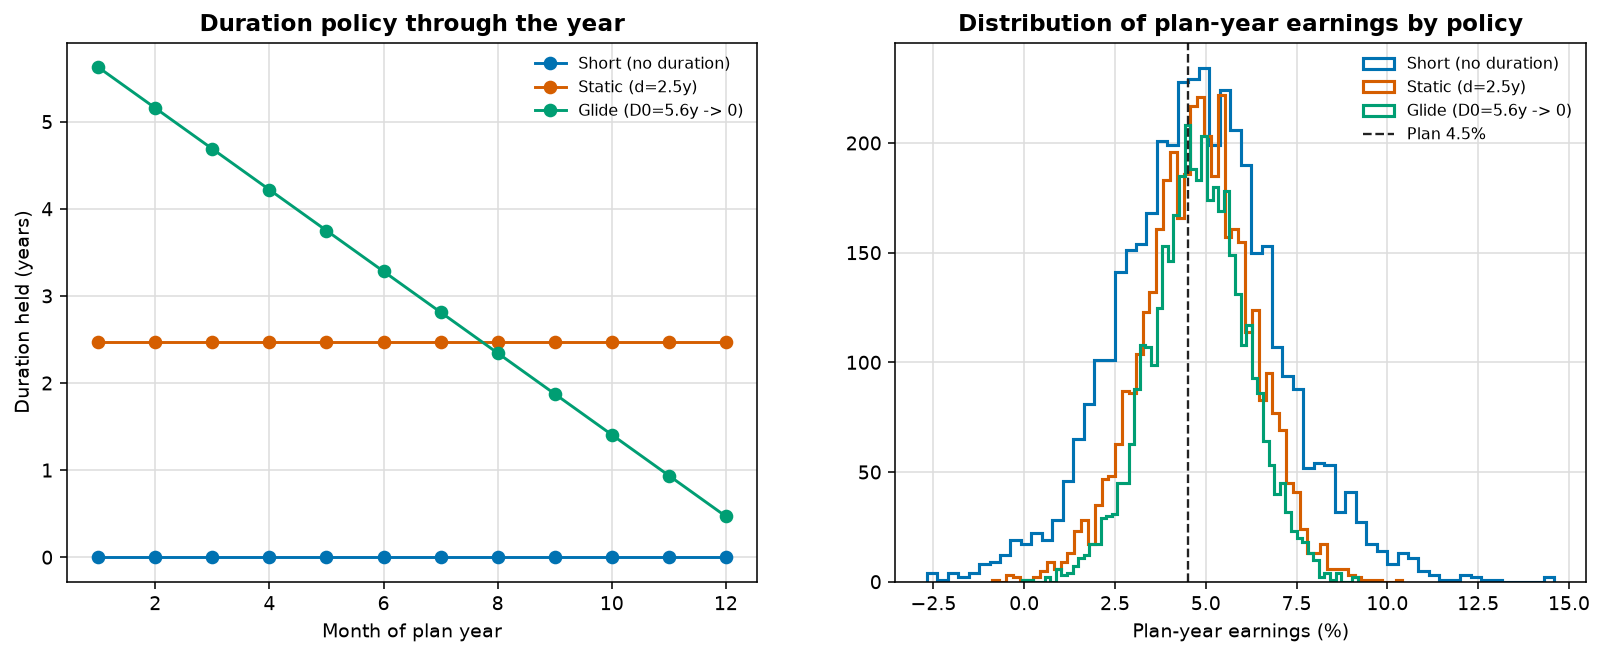
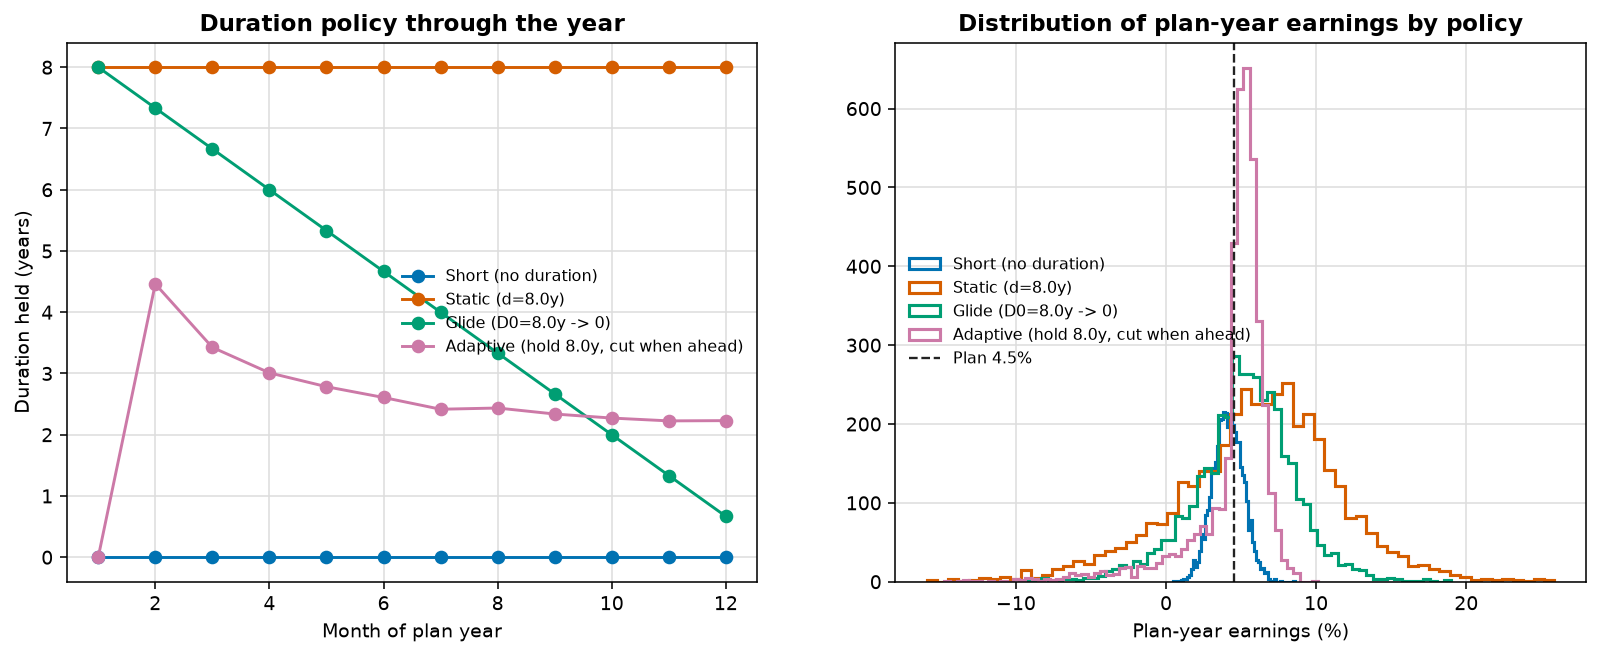
Rework glide path with term-premium trade-off and a path-dependent adaptive policy
Duration now genuinely trades off: it earns a term premium (carry needed to make
the plan) but bears rate risk. Added an adaptive, path-dependent policy that holds
duration while behind the plan pace and cuts it once ahead (bank carry early, lock
in). From the same duration budget the adaptive policy gives the lowest plan-miss
probability and lowest earnings volatility - beating static and fixed-glide. B10
narrative/figure updated; duration capped at a realistic ALM limit.

Claude-Session: https://claude.ai/code/session_01DgyoFccjuPM5hksyx5GaM3

diff --git a/src/glide_path.py b/src/glide_path.py
@@ -68,24 +68,38 @@ def _bootstrap_paths(changes: np.ndarray, n_paths: int, block: int, seed: int) -
     return out
 
 
-def _hedge_target(L: float) -> np.ndarray:
-    """Declining hedge target h_t = L * remaining/12 over the 12 months."""
-    remaining = (MONTHS_PER_YEAR - np.arange(MONTHS_PER_YEAR)) / MONTHS_PER_YEAR
-    return L * remaining
-
-
 def _earnings(d_path: np.ndarray, rate_paths: np.ndarray, noise: np.ndarray,
-              carry_m: float, L: float) -> np.ndarray:
-    """Plan-year earnings for a duration schedule across all simulated rate paths.
+              base_carry_m: float, tp_m: float) -> np.ndarray:
+    """Plan-year earnings for a (possibly time-varying) duration schedule.
 
-    Earnings = carry - sum_t (d_t - h_t) dr_t + idiosyncratic (non-rate) noise.
-    The noise (same draws for every policy - common random numbers) is the
-    spread/credit/equity earnings variation a rate hedge cannot remove, so the
-    best policy minimises *rate* earnings variance but never reaches zero.
+    Each month duration `d_t` both *earns a term premium* (tp_m per year of
+    duration - the carry you need to clear the plan) and *bears rate risk*
+    (-d_t * dr_t). Earnings = base carry + term-premium carry - rate MtM + noise.
+    The trade-off is real: you need duration to make the number, but it is risk.
     """
-    h = _hedge_target(L)
-    rate_impact = ((d_path - h)[None, :] * rate_paths).sum(axis=1)
-    return carry_m * MONTHS_PER_YEAR - rate_impact + noise.sum(axis=1)
+    carry = base_carry_m * MONTHS_PER_YEAR + tp_m * d_path.sum()
+    rate_impact = (d_path[None, :] * rate_paths).sum(axis=1)
+    return carry - rate_impact + noise.sum(axis=1)
+
+
+def _earnings_adaptive(d0: float, rate_paths: np.ndarray, noise: np.ndarray,
+                       base_carry_m: float, tp_m: float, plan: float) -> tuple[np.ndarray, np.ndarray]:
+    """Path-dependent policy: hold duration d0 while cumulative earnings are behind
+    the plan pace, then cut to zero once ahead (bank the carry, then de-risk).
+
+    Returns (plan-year earnings, average duration schedule across paths).
+    """
+    n = rate_paths.shape[0]
+    cum = np.zeros(n)
+    held = np.zeros((n, MONTHS_PER_YEAR))
+    pace = plan / MONTHS_PER_YEAR
+    for t in range(MONTHS_PER_YEAR):
+        ahead = cum >= pace * t                       # banked enough so far?
+        d_t = np.where(ahead, 0.0, d0)                # cut once ahead, else hold
+        held[:, t] = d_t
+        e_t = base_carry_m + tp_m * d_t - d_t * rate_paths[:, t] + noise[:, t]
+        cum = cum + e_t
+    return cum, held.mean(axis=0)
 
 
 def _metrics(E: np.ndarray, plan: float) -> dict:
@@ -102,10 +116,13 @@ def run_glide_path(config: dict, n_paths: int = 4000) -> dict:
     pcfg = config["portfolio"]
     gcfg = config.get("glide_path", {})
     plan = pcfg["plan_return_target"]
-    # The book carries a small buffer above plan (running yield > plan target), so
-    # lower earnings *variance* translates directly into a lower plan-miss chance.
-    carry_ann = gcfg.get("carry_annual", plan + 0.003)
-    carry_m = carry_ann / MONTHS_PER_YEAR
+    # Base carry is set BELOW plan, so the book *needs* duration's term premium to
+    # make the number - but duration is also rate risk. That tension is the lever.
+    base_carry_ann = gcfg.get("base_carry_annual", plan - 0.004)
+    base_carry_m = base_carry_ann / MONTHS_PER_YEAR
+    tp_ann = gcfg.get("term_premium_per_year", 0.0025)   # extra carry per year of duration
+    max_dur = gcfg.get("max_duration", 8.0)              # realistic ALM cap on surplus duration
+    tp_m = tp_ann / MONTHS_PER_YEAR
     L = gcfg.get("plan_rate_sensitivity", config["currencies"]["AUD"]["liability_duration"])
     seed = config["meta"].get("random_seed", 7)
 
@@ -113,36 +130,37 @@ def run_glide_path(config: dict, n_paths: int = 4000) -> dict:
     if gcfg.get("demean_rates", True):
         changes = changes - changes.mean()               # duration as a pure risk lever, not a rate bet
     paths = _bootstrap_paths(changes, n_paths, block=3, seed=seed)
-    # Idiosyncratic (non-rate) monthly earnings noise, shared across policies.
-    idio_ann = gcfg.get("idio_earnings_vol", 0.012)
+    idio_ann = gcfg.get("idio_earnings_vol", 0.010)
     rng = np.random.default_rng(seed + 1)
     noise = rng.normal(0.0, idio_ann / np.sqrt(MONTHS_PER_YEAR), (n_paths, MONTHS_PER_YEAR))
 
     rem = (MONTHS_PER_YEAR - np.arange(MONTHS_PER_YEAR)) / MONTHS_PER_YEAR
-    grid = np.linspace(0.0, 2.0 * L, 41)
-    static = min(grid, key=lambda D: _metrics(_earnings(np.full(MONTHS_PER_YEAR, D), paths, noise, carry_m, L), plan)["prob_miss_plan"])
-    d0 = min(grid, key=lambda D0: _metrics(_earnings(D0 * rem, paths, noise, carry_m, L), plan)["prob_miss_plan"])
+    grid = np.linspace(0.0, max_dur, 41)
+    static = min(grid, key=lambda D: _metrics(_earnings(np.full(MONTHS_PER_YEAR, D), paths, noise, base_carry_m, tp_m), plan)["prob_miss_plan"])
+    glide0 = min(grid, key=lambda D0: _metrics(_earnings(D0 * rem, paths, noise, base_carry_m, tp_m), plan)["prob_miss_plan"])
+    adapt0 = min(grid, key=lambda D0: _metrics(_earnings_adaptive(D0, paths, noise, base_carry_m, tp_m, plan)[0], plan)["prob_miss_plan"])
 
+    adapt_E, adapt_sched = _earnings_adaptive(adapt0, paths, noise, base_carry_m, tp_m, plan)
     policies = {
-        "Short (no duration)": np.zeros(MONTHS_PER_YEAR),
-        f"Static (d={static:.1f}y)": np.full(MONTHS_PER_YEAR, static),
-        f"Glide (D0={d0:.1f}y -> 0)": d0 * rem,
+        "Short (no duration)": (np.zeros(MONTHS_PER_YEAR), _earnings(np.zeros(MONTHS_PER_YEAR), paths, noise, base_carry_m, tp_m)),
+        f"Static (d={static:.1f}y)": (np.full(MONTHS_PER_YEAR, static), _earnings(np.full(MONTHS_PER_YEAR, static), paths, noise, base_carry_m, tp_m)),
+        f"Glide (D0={glide0:.1f}y -> 0)": (glide0 * rem, _earnings(glide0 * rem, paths, noise, base_carry_m, tp_m)),
+        f"Adaptive (hold {adapt0:.1f}y, cut when ahead)": (adapt_sched, adapt_E),
     }
     rows, dists, schedules = {}, {}, {}
-    for name, d_path in policies.items():
-        E = _earnings(d_path, paths, noise, carry_m, L)
+    for name, (d_path, E) in policies.items():
         rows[name] = _metrics(E, plan)
         dists[name] = E
         schedules[name] = d_path
 
-    table = pd.DataFrame(rows).T
     return {
-        "table": table,
+        "table": pd.DataFrame(rows).T,
         "distributions": dists,
         "schedules": schedules,
         "plan": plan,
         "L": L,
         "static_opt": static,
-        "glide_opt_d0": d0,
+        "glide_opt_d0": glide0,
+        "adaptive_opt_d0": adapt0,
         "months": np.arange(1, MONTHS_PER_YEAR + 1),
     }

diff --git a/src/reporting.py b/src/reporting.py
@@ -1008,31 +1008,34 @@ def write_full_report(results: dict) -> None:
     gp = results.get("glide_path")
     if gp is not None:
         gt = gp["table"]
-        names = list(gt.index)
-        short_row, glide_row = gt.iloc[0], gt.iloc[-1]
+        short_row = gt.loc[[i for i in gt.index if i.startswith("Short")][0]]
+        static_row = gt.loc[[i for i in gt.index if i.startswith("Static")][0]]
+        adapt_row = gt.loc[[i for i in gt.index if i.startswith("Adaptive")][0]]
         m.append("### B10. Dynamic duration glide path (through-time earnings protection)\n")
         m.append(story(
             why="Every lens so far is a *position* at a point in time. But the CFO's real lever is a *policy through "
-                "time*: take interest-rate duration early in the plan year to immunise the remaining-year earnings against "
-                "rate moves, then wind it down toward year-end as the number is banked. No point-in-time optimiser can see "
-                "this - it is the gap the brief singled out, and the most novel piece here.",
-            means="The rate exposure of the *remaining* year shrinks as the year runs off, so the duration needed to "
-                  "protect it declines too - a natural **glide path**. A static duration over-hedges late in the year "
-                  "(carrying rate risk on earnings already banked); too little under-hedges throughout.",
-            how="Stylised 12-month simulation: monthly earnings = carry - (d_t - h_t) x dr_t + non-rate noise, where the "
-                "hedge target h_t = L x (months remaining)/12. Rate paths are block-bootstrapped from history (demeaned, so "
-                "duration is a pure risk lever); the static level and the glide start are each optimised to minimise the "
-                "plan-miss probability under common random numbers.",
-            found=f"The optimised **glide path cuts earnings volatility to {glide_row['earnings_vol']:.2%}** (vs "
-                  f"{short_row['earnings_vol']:.2%} for a short, no-duration book), lifts the worst-case earnings floor "
-                  f"(5% earnings-at-risk **{glide_row['earnings_at_risk_5pc']:.2%}** vs {short_row['earnings_at_risk_5pc']:.2%}) "
-                  f"and lowers the plan-miss probability to **{glide_row['prob_miss_plan']:.0%}** - for the same expected "
-                  "earnings. Winding duration down as the year runs off beats any constant duration.",
-            nxt="Make the glide **path-dependent** (cut duration once cumulative earnings clear the plan, hold it while "
-                "behind), drive it off the *actual* P&L-book duration and liability profile rather than a stylised L, and "
-                "let the optimiser choose the whole monthly schedule (not just a linear wind-down)."))
-        m.append(img("27_glide_path", "Figure 22. Left: duration held through the plan year by policy. Right: the resulting "
-                     "distribution of plan-year earnings - the glide path is the tightest around (and above) the plan."))
+                "time*: hold interest-rate duration early in the plan year to earn the carry needed to make the number, "
+                "then wind it down as that carry is banked so you stop carrying rate risk on earnings already secured. No "
+                "point-in-time optimiser can see this - it is the gap the brief singled out, and the most novel piece here.",
+            means="Duration is a genuine trade-off: it **earns a term premium** (the carry you need to clear the plan) but "
+                  "**bears rate risk**. A static duration over-holds risk all year; a glide winds it down on a fixed "
+                  "schedule; an **adaptive** policy holds duration while *behind* the plan pace and cuts it once *ahead* - "
+                  "banking the carry, then locking it in.",
+            how="Stylised 12-month simulation: monthly earnings = base carry + term-premium x d_t - d_t x dr_t + non-rate "
+                "noise, with base carry set below plan (so duration is needed) and rate paths block-bootstrapped from "
+                "history (demeaned). The static level, glide start and adaptive trigger are each optimised to minimise the "
+                "plan-miss probability under common random numbers; duration is capped at a realistic ALM limit.",
+            found=f"From the same duration budget, **management style is what matters**. A short book cannot make the plan "
+                  f"({short_row['prob_miss_plan']:.0%} miss). A static-high book lowers the miss to "
+                  f"{static_row['prob_miss_plan']:.0%} but at high earnings volatility ({static_row['earnings_vol']:.2%}) "
+                  f"and an ugly tail (EaR {static_row['earnings_at_risk_5pc']:.2%}). The **adaptive glide path is best: "
+                  f"plan-miss {adapt_row['prob_miss_plan']:.0%} at the lowest earnings volatility "
+                  f"({adapt_row['earnings_vol']:.2%})** - bank the carry early, de-risk once ahead.",
+            nxt="Drive the policy off the *actual* P&L-book duration and liability profile (not a stylised term premium), "
+                "let the optimiser choose the whole monthly schedule, and tie the trigger to the live earnings run-rate "
+                "and a capital budget - a genuine dynamic asset-allocation overlay."))
+        m.append(img("27_glide_path", "Figure 22. Left: duration held through the plan year by policy (the adaptive path "
+                     "cuts once ahead of plan). Right: the resulting distribution of plan-year earnings."))
         m.append(_df_to_md(gt.round(4)) + "\n")
 
     rg = results.get("regimes")

diff --git a/outputs/report.md b/outputs/report.md
@@ -397,25 +397,26 @@ Realised behaviour through the embedded historical episodes:
 
 ### B10. Dynamic duration glide path (through-time earnings protection)
 
-**Why this lens.** Every lens so far is a *position* at a point in time. But the CFO's real lever is a *policy through time*: take interest-rate duration early in the plan year to immunise the remaining-year earnings against rate moves, then wind it down toward year-end as the number is banked. No point-in-time optimiser can see this - it is the gap the brief singled out, and the most novel piece here.
+**Why this lens.** Every lens so far is a *position* at a point in time. But the CFO's real lever is a *policy through time*: hold interest-rate duration early in the plan year to earn the carry needed to make the number, then wind it down as that carry is banked so you stop carrying rate risk on earnings already secured. No point-in-time optimiser can see this - it is the gap the brief singled out, and the most novel piece here.
 
-**What it means.** The rate exposure of the *remaining* year shrinks as the year runs off, so the duration needed to protect it declines too - a natural **glide path**. A static duration over-hedges late in the year (carrying rate risk on earnings already banked); too little under-hedges throughout.
+**What it means.** Duration is a genuine trade-off: it **earns a term premium** (the carry you need to clear the plan) but **bears rate risk**. A static duration over-holds risk all year; a glide winds it down on a fixed schedule; an **adaptive** policy holds duration while *behind* the plan pace and cuts it once *ahead* - banking the carry, then locking it in.
 
-**How it is calculated.** Stylised 12-month simulation: monthly earnings = carry - (d_t - h_t) x dr_t + non-rate noise, where the hedge target h_t = L x (months remaining)/12. Rate paths are block-bootstrapped from history (demeaned, so duration is a pure risk lever); the static level and the glide start are each optimised to minimise the plan-miss probability under common random numbers.
+**How it is calculated.** Stylised 12-month simulation: monthly earnings = base carry + term-premium x d_t - d_t x dr_t + non-rate noise, with base carry set below plan (so duration is needed) and rate paths block-bootstrapped from history (demeaned). The static level, glide start and adaptive trigger are each optimised to minimise the plan-miss probability under common random numbers; duration is capped at a realistic ALM limit.
 
-**What we found.** The optimised **glide path cuts earnings volatility to 1.29%** (vs 2.17% for a short, no-duration book), lifts the worst-case earnings floor (5% earnings-at-risk **2.67%** vs 1.36%) and lowers the plan-miss probability to **40%** - for the same expected earnings. Winding duration down as the year runs off beats any constant duration.
+**What we found.** From the same duration budget, **management style is what matters**. A short book cannot make the plan (65% miss). A static-high book lowers the miss to 34% but at high earnings volatility (5.41%) and an ugly tail (EaR -3.59%). The **adaptive glide path is best: plan-miss 28% at the lowest earnings volatility (2.64%)** - bank the carry early, de-risk once ahead.
 
-**What to study next.** Make the glide **path-dependent** (cut duration once cumulative earnings clear the plan, hold it while behind), drive it off the *actual* P&L-book duration and liability profile rather than a stylised L, and let the optimiser choose the whole monthly schedule (not just a linear wind-down).
+**What to study next.** Drive the policy off the *actual* P&L-book duration and liability profile (not a stylised term premium), let the optimiser choose the whole monthly schedule, and tie the trigger to the live earnings run-rate and a capital budget - a genuine dynamic asset-allocation overlay.
 
-![Figure 22. Left: duration held through the plan year by policy. Right: the resulting distribution of plan-year earnings - the glide path is the tightest around (and above) the plan.](charts/27_glide_path.png)
+![Figure 22. Left: duration held through the plan year by policy (the adaptive path cuts once ahead of plan). Right: the resulting distribution of plan-year earnings.](charts/27_glide_path.png)
 
-*Figure 22. Left: duration held through the plan year by policy. Right: the resulting distribution of plan-year earnings - the glide path is the tightest around (and above) the plan.*
+*Figure 22. Left: duration held through the plan year by policy (the adaptive path cuts once ahead of plan). Right: the resulting distribution of plan-year earnings.*
 
 | metric | mean_earnings | earnings_vol | prob_miss_plan | earnings_at_risk_5pc |
 |---|---|---|---|---|
-| Short (no duration) | 0.0480 | 0.0217 | 0.4412 | 0.0136 |
-| Static (d=2.5y) | 0.0478 | 0.0148 | 0.4140 | 0.0232 |
-| Glide (D0=5.6y -> 0) | 0.0480 | 0.0129 | 0.4028 | 0.0267 |
+| Short (no duration) | 0.0410 | 0.0101 | 0.6490 | 0.0244 |
+| Static (d=8.0y) | 0.0604 | 0.0541 | 0.3418 | -0.0359 |
+| Glide (D0=8.0y -> 0) | 0.0519 | 0.0335 | 0.3740 | -0.0065 |
+| Adaptive (hold 8.0y, cut when ahead) | 0.0449 | 0.0264 | 0.2752 | -0.0096 |
 
 ### B11. Regime-conditional risk (correlations are not constant)
 